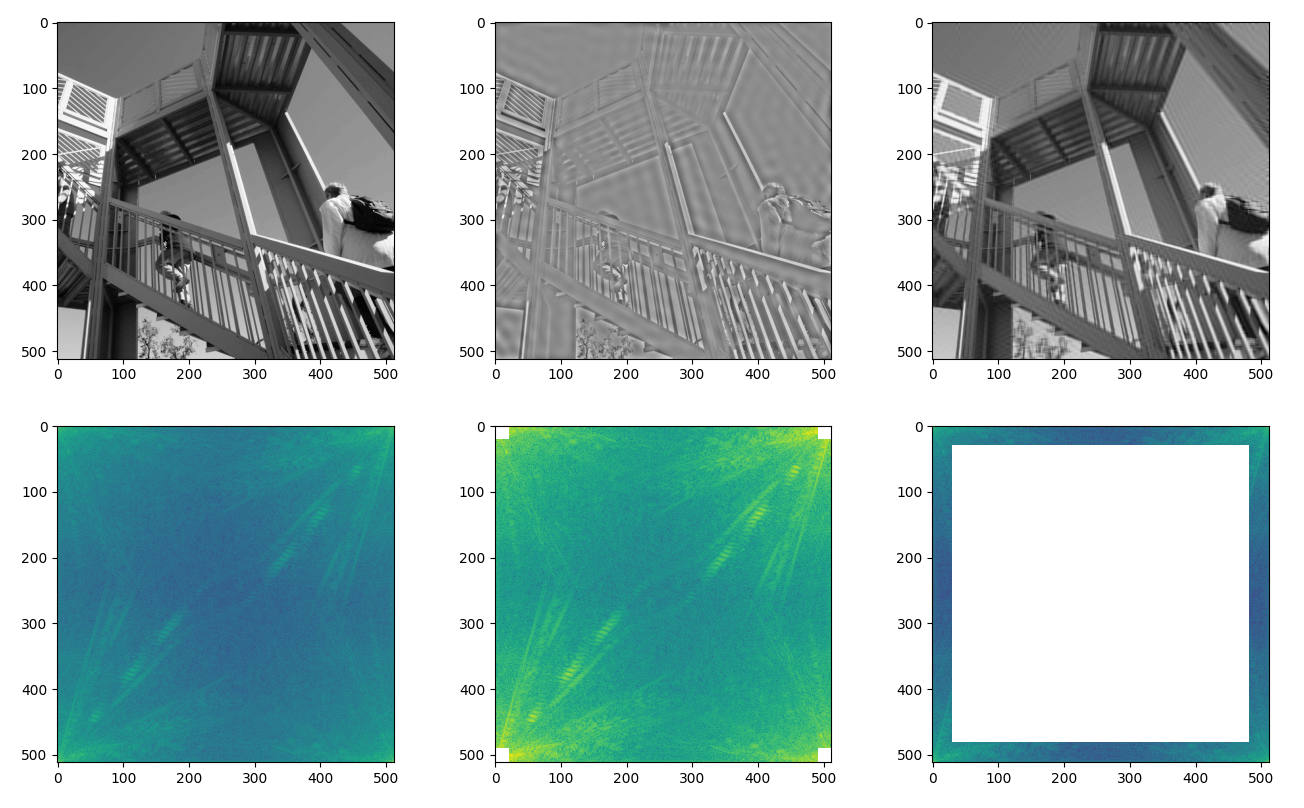
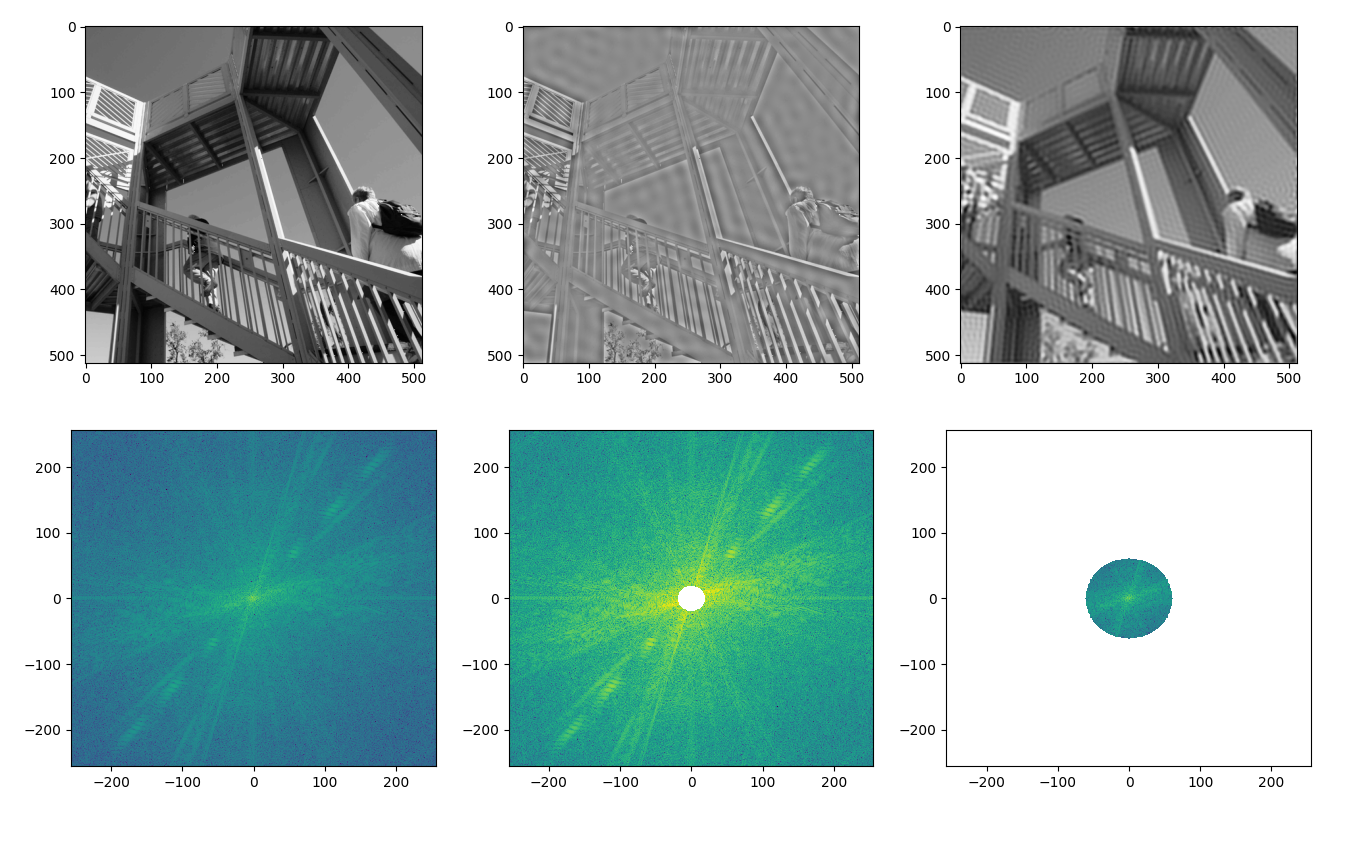
updates slides to use circular blend FFT example

diff --git a/slides/05_content.tex b/slides/05_content.tex
@@ -311,16 +311,17 @@ fft_original = sci.fft.fft2(img_original)
 # for plotting:
 # compute absolute values from complex Fourier data
 # low-frequency contributions are dominant. Compute log to bring them closer together
-fla_original = np.log(np.absolute(fft_original))
+display_original = roll(np.log(np.absolute(fft_original)))
 
-high_pass_filter_size = 20
-fft_high_pass_filter = fft_original.copy()
-fft_high_pass_filter[:high_pass_filter_size , :high_pass_filter_size ] = 0
-fft_high_pass_filter[-high_pass_filter_size:, -high_pass_filter_size:] = 0
-fft_high_pass_filter[-high_pass_filter_size:, :high_pass_filter_size ] = 0
-fft_high_pass_filter[:high_pass_filter_size , -high_pass_filter_size:] = 0
-fla_high_pass_filter = np.log(np.absolute(fft_high_pass_filter))
-img_high_pass_filter = sci.fft.ifft2(fft_high_pass_filter).real
+img_size = img_original.shape
+mask = create_cirular_mask(img_size, 20)
+    
+fft_hi_pass_filter = roll(fft_original.copy())
+fft_hi_pass_filter[mask] = 0
+display_hi_pass_filter = roll(np.log(np.absolute(fft_hi_pass_filter)))
+fft_hi_pass_filter = roll(fft_hi_pass_filter)
+img_hi_pass_filter = sci.fft.ifft2(fft_hi_pass_filter).real
+display_hi_pass_filter = roll(display_hi_pass_filter)
 
 # similar for low pass filter
 # matplotlib-commands
@@ -333,7 +334,7 @@ img_high_pass_filter = sci.fft.ifft2(fft_high_pass_filter).real
 
 \begin{frame}{2D Fourier Transform And The Secret Of JPEG}
 %
-\begin{columns}
+\begin{columns}[T]
 \column{.75\linewidth}
 \includegraphics[width=\linewidth]{./gfx/05-FFT-2D}
 %
